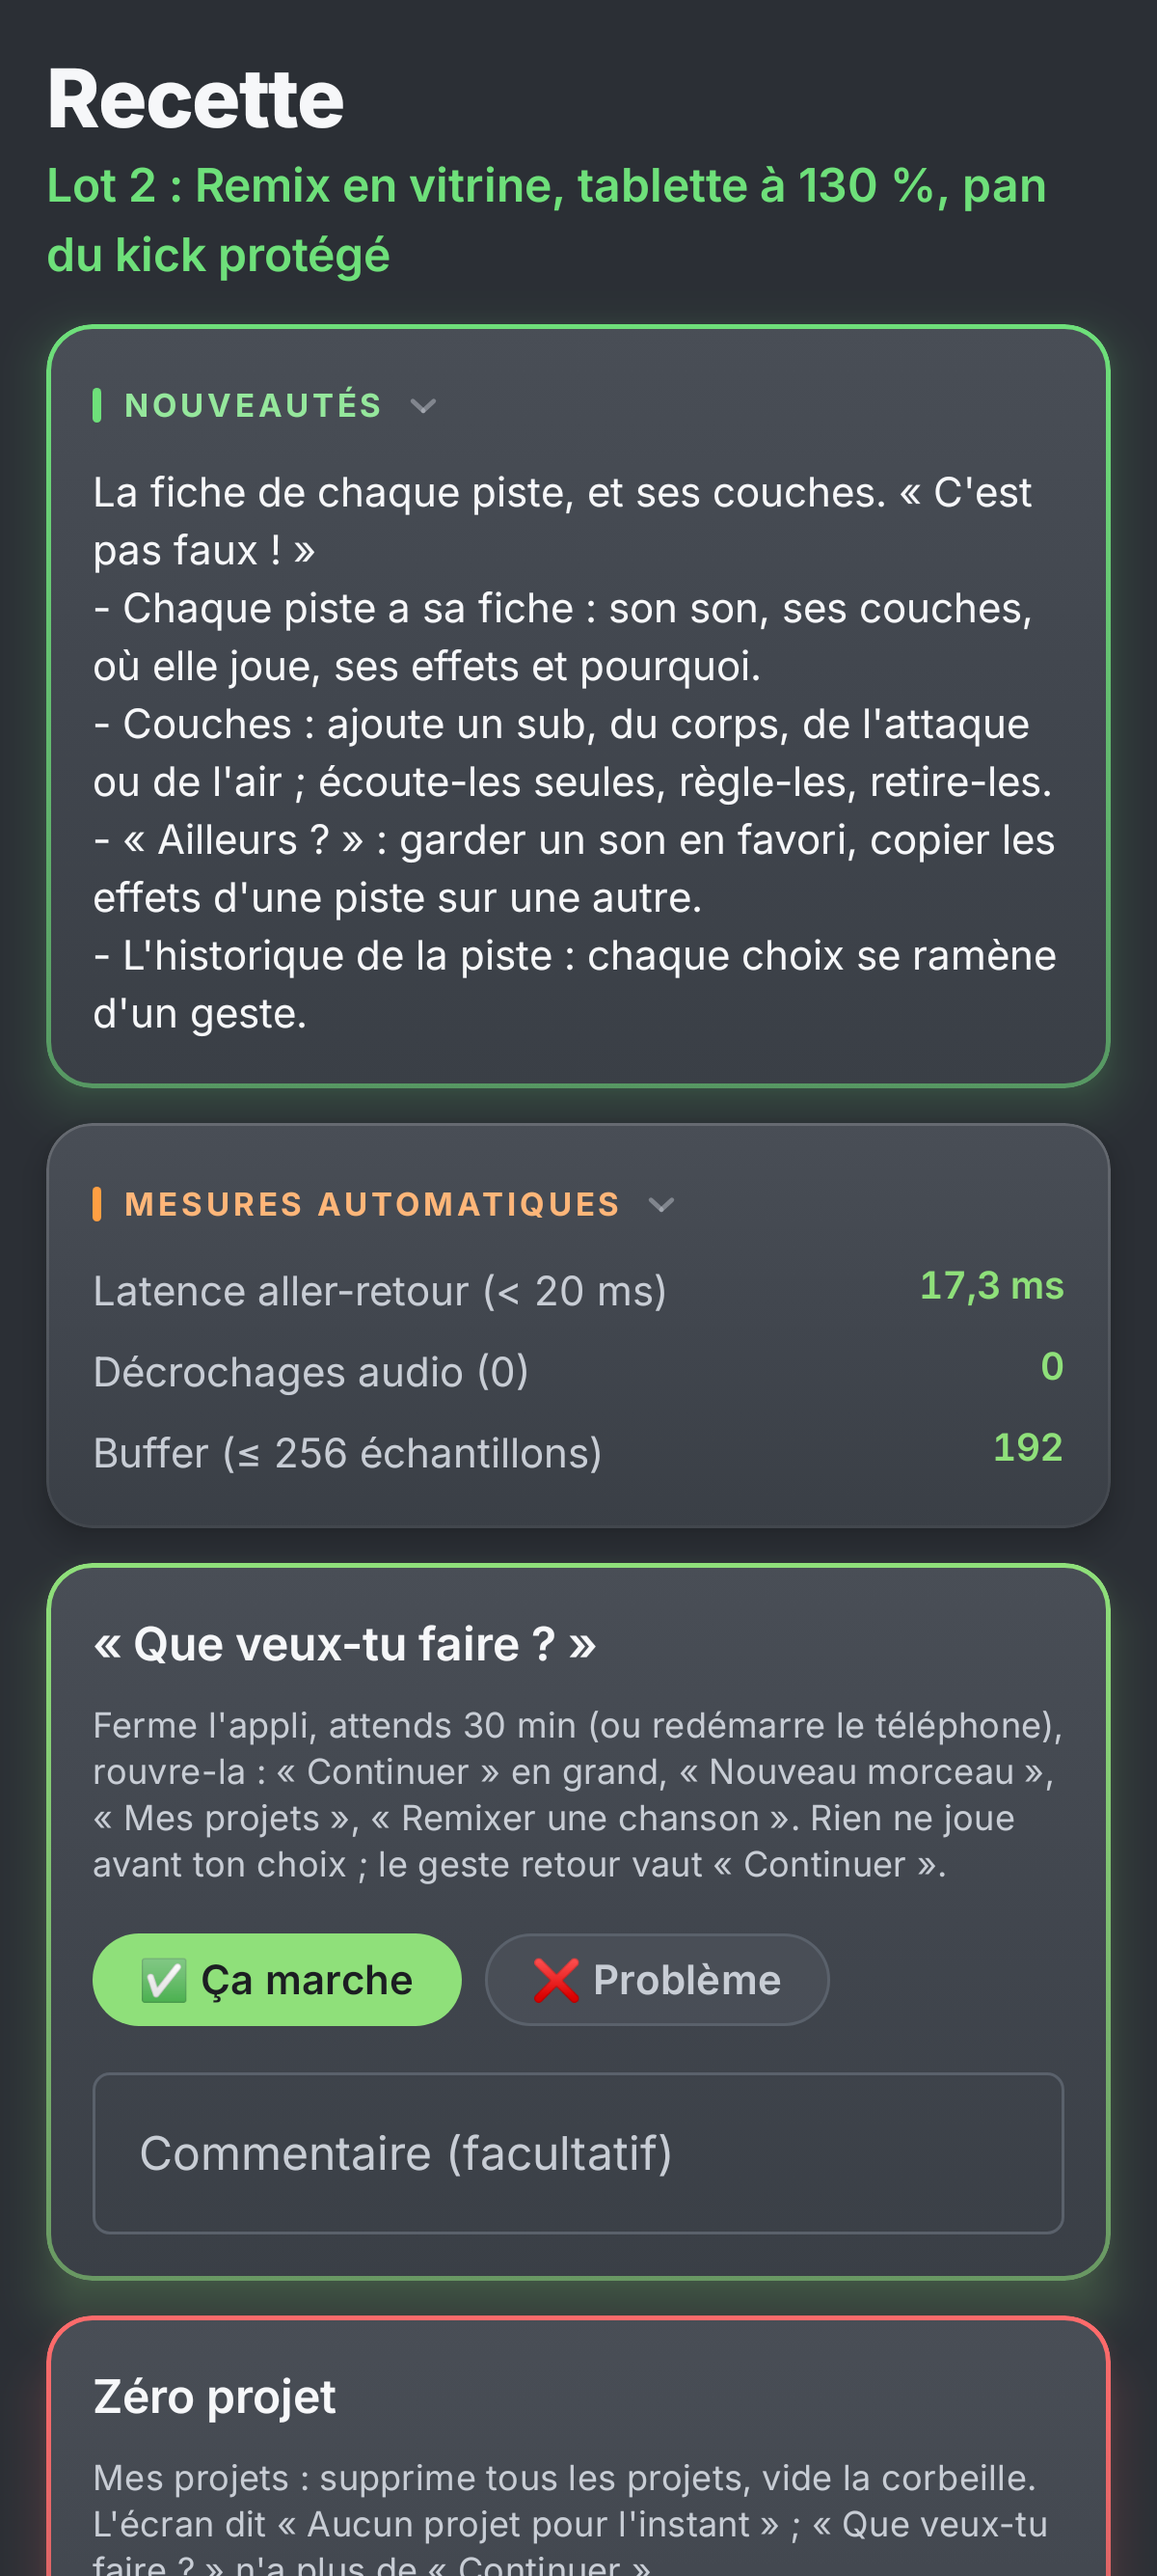
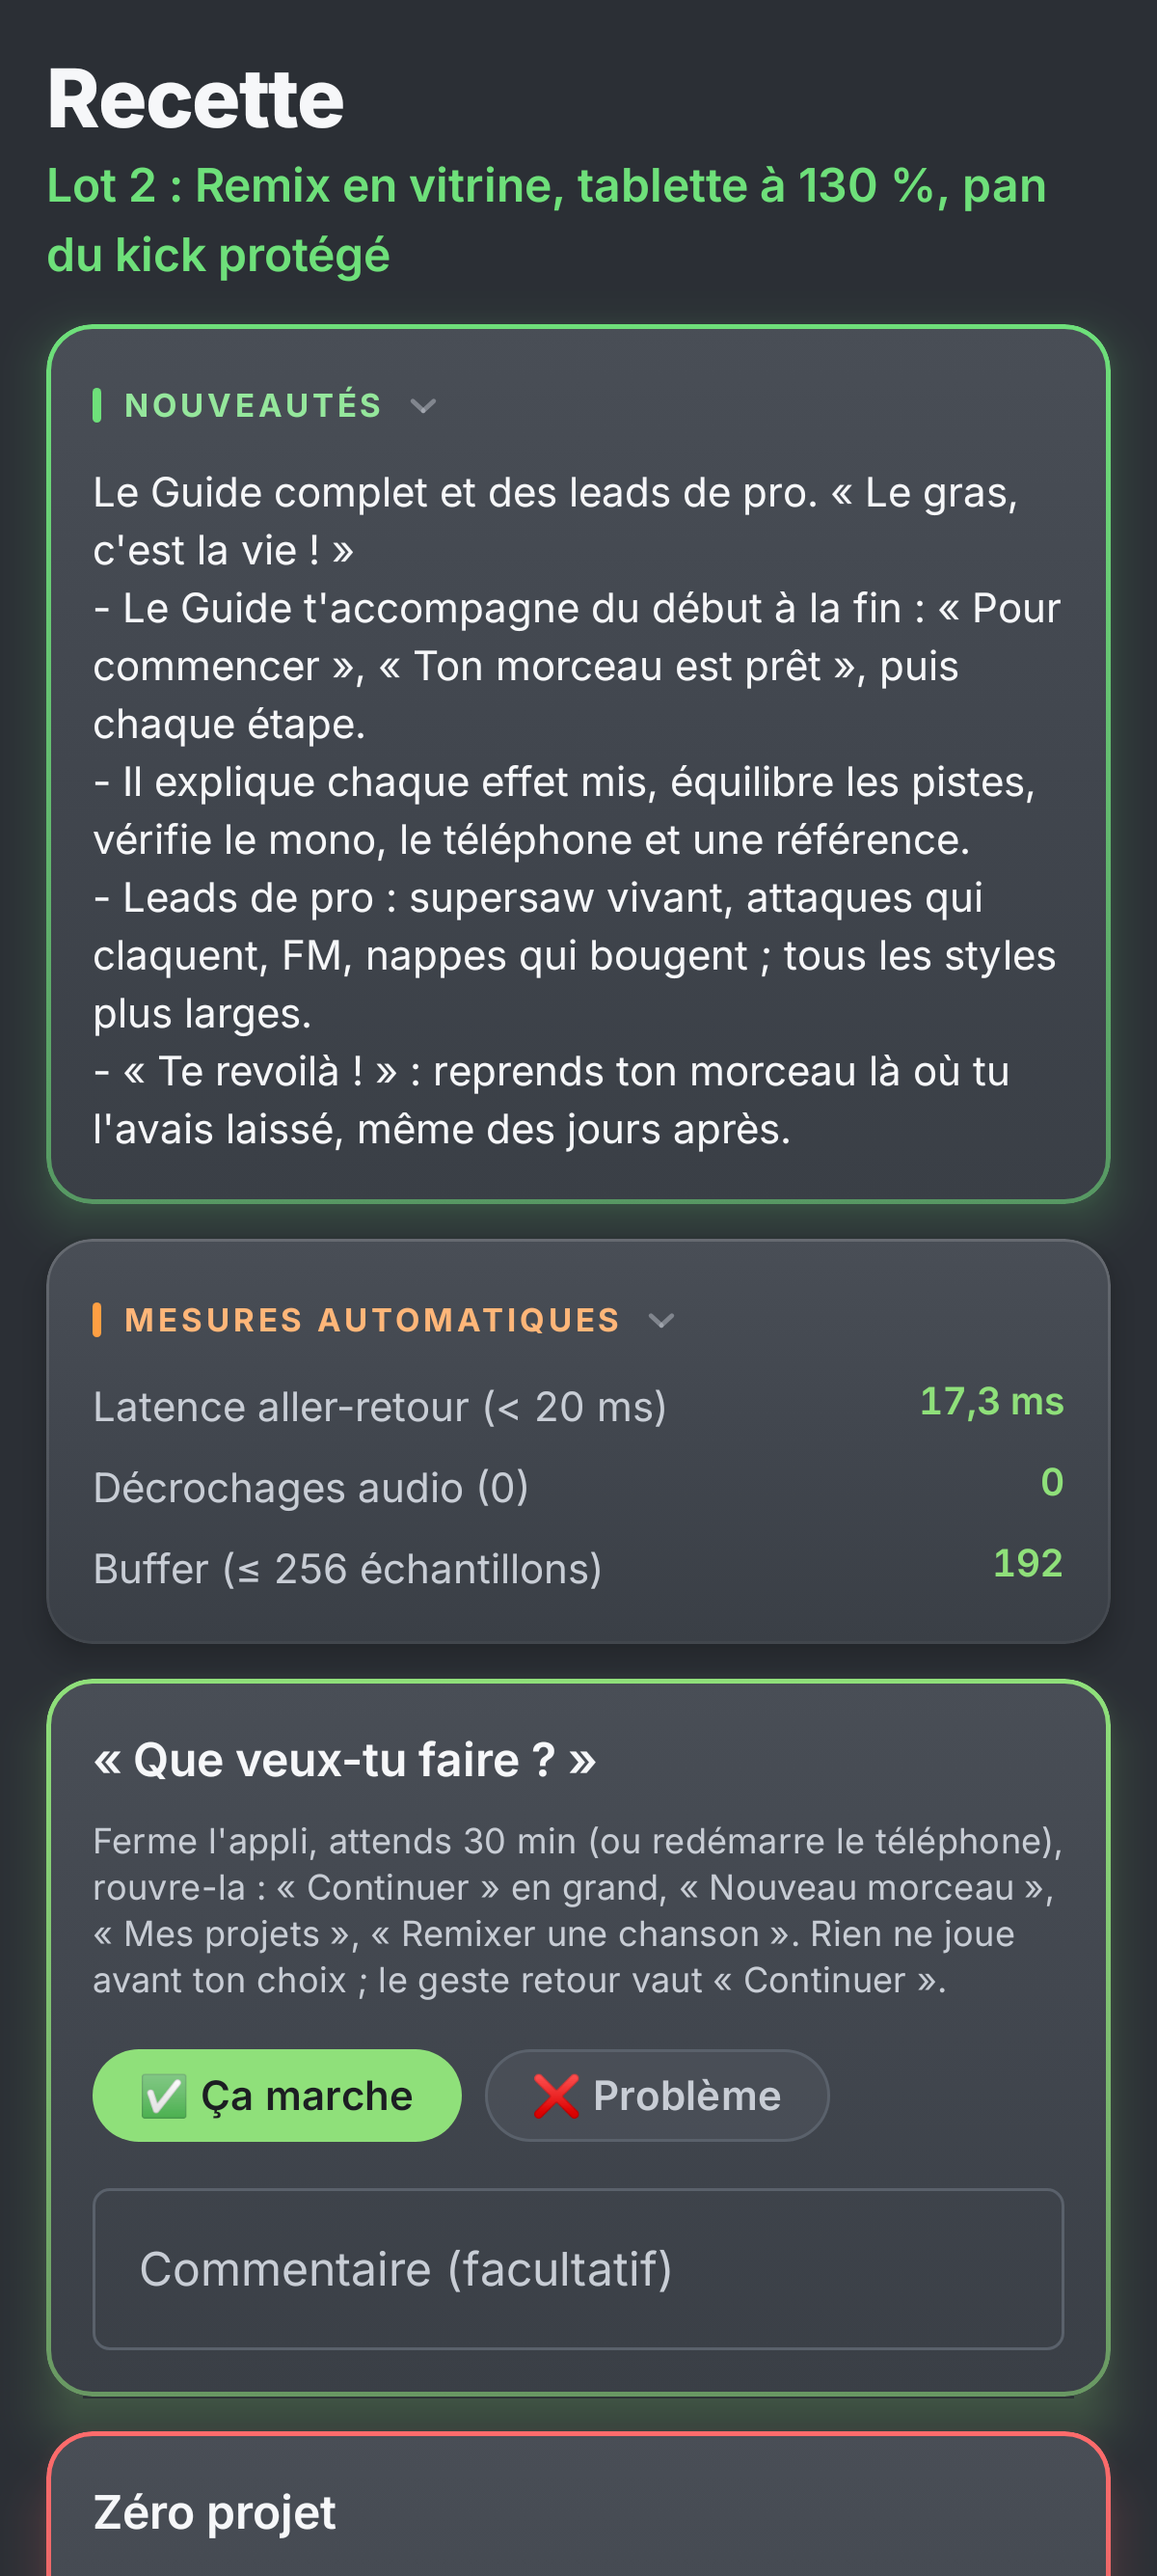
Guide G4 to G6 and the sound's finish on main, the final audit planned [skip ci]
Changelog, progress, Benjamin's rules of 2026-10-26/27 (one APK when all is done, news at each
step, the Play Store on his word), the plan of the final audit; screenshots with son 8's curves.

Claude-Session: https://claude.ai/code/session_01NqonxZBBysqqWBbnsC2VTP

Changed region(s): [[0.0308, 0.1865, 0.9867, 1.0], [0.6783, 0.9326, 0.8942, 0.9948]]

diff --git a/docs/PROGRESS.md b/docs/PROGRESS.md
@@ -1,25 +1,13 @@
 # Avancement
 
-## Où on en est (2026-10-25)
-- `main` = PR #51 (basses + leads lot 1 + S6) ; APK 220 envoyé à Benjamin avec les extraits avant / après (« C'est parfait »).
-- `main` = PR #52 (Guide G2 + S7 son), APK 222 compilé par l'agent et envoyé à Benjamin (consigne : compiler soi-même dès qu'un bloc est prêt, sans attendre GitHub).
-- En cours : PR Guide G3 (fiche de piste, éditeur de couches, historique), relue à neuf.
-- Fait (branche `g4`, pas encore relue à neuf) : Guide G4, les étapes 3 à 6 en vraies cartes (effets un par un, Break tiré du Drop, courbes et fills, niveaux mesurés, mono, téléphone, référence).
-- Fait (branche `g5`, sur `g4`) : relecture neuve de G4 et ses corrections mineures ; Guide G5, une seule surface pour guider : « Ton morceau est prêt » est la première carte du Guide d'un morceau tout juste fait (le panneau s'ouvre dessus), les Missions sont les cartes « Pour commencer » de « Mon premier morceau », la « Prochaine étape » d'un morceau fait à la main aussi ; le bandeau, la fenêtre et la carte des Missions sont retirés ; le mot de chaque carte s'écoute avant de décider ; carte « Remixer un morceau ». Pas encore relue à neuf.
-- Fait (branche `g6`, sur `g5`) : Guide G6, vérification : parcours complet dans Robolectric (création par l'assistant, activité recréée, cartes, fiche, couches, export, reprise 3 jours plus tard), Mode simple, 15 actions clés avec le Guide ouvert, banc des 37 morceaux suivis jusqu'au bout ; bilan critère par critère dans `docs/guide/G6-verification.md` ; le Guide dit « Te revoilà » tout seul après un jour d'absence.
+## Où on en est (2026-10-27)
+- `main` = Guide G4, G5 et G6 + son 8 (leads lots B à D, largeur des 37 styles, restes S6/S7), chacun relu à neuf et corrigé ; fusion sans CI de GitHub (« [skip ci] », en pause sur demande de Benjamin), tests faits ici.
+- Consignes de Benjamin (2026-10-27) : un seul APK quand tout est fini ; des nouvelles à chaque fin d'étape ; le Play Store seulement quand il le demande.
 
 ## Prochaine étape exacte
-1. CI verte de la PR G3, fusion ; APK compilé ici et envoyé à Benjamin.
-2. Relecture neuve de G5, fusion de G4 + G5 ; puis G6 (vérification : parcours complet sur émulateur avec les cartes « Pour commencer », reprise à 3 jours, durée des mesures sur le téléphone).
-3. Restes son : largeur de deep house, dubstep, neurofunk, phonk ; intros en direct de riddim et jersey club ; restes de relecture S6/S7 (REVIEW.md).
-4. Leads lots B à D, puis le chantier Play Store en dernier.
-- Fait (branche `son8`, sur `g4`, pas encore relue à neuf) : son 8, leads lots B à D (moteur : suivi de clavier, clic, vibrato retardé, supersaw JP-8000, ladder propre, drive avant filtre, chorus stéréo, PWM, FM ; bibliothèque et couches de l'assistant), largeur des 4 styles étroits, restes de relecture S6/S7. Banc : `docs/son/banc/apres-son8.md`.
-
-## Prochaine étape exacte
-1. CI verte de la PR G3, fusion ; APK compilé ici et envoyé à Benjamin.
-2. Relecture neuve de G4 et fusion ; puis G5 (fusion des anciennes surfaces), G6 (vérification, dont la durée des mesures sur le téléphone).
-3. Relecture neuve de son 8 (branche `son8`), écoute des extraits `scratchpad/final/<style>-final.m4a` par Benjamin, fusion.
-4. Restes son : intros en direct de riddim et jersey club (estimer le gain sur plus d'une partie) ; puis le chantier Play Store en dernier.
+1. Le grand audit final (`docs/PLAN-AUDIT-FINAL.md`) : une vingtaine d'auditeurs en même temps (utilisateurs, pros du son, experts techniques, forme), synthèse par gravité, correction de tout le grave et le moyen, seconde passe de vérification.
+2. Puis l'APK unique compilé ici, avec les extraits audio, et le résumé pour Benjamin.
+3. Plus tard, sur demande de Benjamin : le chantier Play Store.
 
 **Phase 0 fusionnée le 2026-10-18, phase 1 fusionnée le 2026-10-19 (feu vert de Benjamin).** Phase en cours : 2 (sampler et notes).
 

diff --git a/docs/PLAN-AUDIT-FINAL.md b/docs/PLAN-AUDIT-FINAL.md
@@ -1,0 +1,52 @@
+# Le grand audit final (demande de Benjamin, 2026-10-27)
+
+> « Une fois que tout est terminé et sur GitHub, prévois un énorme audit avec un beau panel. L'objectif est de trouver toutes les imperfections du programme, quel que soit le type. » — « N'hésite pas à tout mettre en même temps, pas de limite. »
+
+## But
+Trouver **toutes** les imperfections de Pocket Studio, quel que soit leur type : bugs, plantages, pertes de données, sons ratés, gestes pénibles, textes faux, lenteurs, trous de tests, fragilités du code. Puis corriger tout ce qui est grave et moyen, et vérifier.
+
+## Le panel (tous en même temps)
+Chaque auditeur lit le code et les captures, fait tourner ce qu'il peut sur la machine (tests Robolectric, banc de son, rendus hors ligne, captures), et rend des constats précis : où, comment le reproduire, gravité, correction proposée.
+
+**Utilisateurs (parcours réels, captures et tests Robolectric)**
+1. Débutant total, téléphone, « un morceau pour une soirée » (house).
+2. Débutante, « remixer une chanson » (séparateur de pistes).
+3. Ado, trap / drill, veut enregistrer sa voix.
+4. Débutant bass music, jump up (le style de Benjamin), suit le Guide jusqu'au bout.
+5. Débutante lo-fi, Mode simple, reprend son morceau des jours après.
+6. Musicien confirmé, va vite : clavier, notes, couches, mixeur, automation, export.
+7. Producteur live : page Live, pads, enregistrement de la performance.
+8. Utilisateur du Mode simple uniquement.
+9. Tablette Galaxy Tab A11, debout et couchée, 100 % et 130 %.
+
+**Pros du son (banc, rendus, mesures, extraits)**
+10. Bass music (DnB, jump up, dubstep, riddim, neurofunk) : basses, leads, Drops, largeur, téléphone.
+11. Techno / house / trance / acid : groove, contraste des parties, 303, largeur.
+12. Rap / trap / lo-fi / afro / pop : 808, voix, accords, mix.
+
+**Experts techniques**
+13. Moteur audio temps réel : allocations, verrous, NaN, dénormaux, craquements, CPU, latence.
+14. Sauvegarde et données : écriture atomique, vieux projets, migration, export/import zip, perte possible.
+15. Plantages et robustesse : projets bizarres, gestes rapides, rotation, appli tuée, mémoire basse, permissions refusées.
+16. Performance : fil principal, recompositions, mémoire, rendus hors ligne, petits téléphones.
+17. Qualité du code : code mort, duplication, fichiers géants, fragilités.
+18. Qualité des tests : ce qui n'est pas testé, tests faibles ou instables.
+19. Sécurité et vie privée : fichiers, partages, journaux, données envoyées, permissions.
+
+**Forme**
+20. Design et ergonomie : cohérence, densité, gestes, 130 %, captures.
+21. Textes : français, anglais, néerlandais (ton, fautes, jargon, traductions manquantes).
+22. Accessibilité : TalkBack, contrastes, tailles de cible, ordre de lecture.
+23. Le Guide : aide-t-il vraiment ? Trop bavard, pas assez, faux, redondant ?
+
+## Après les constats
+- **Vérification** : chaque constat grave ou moyen est revu par un sceptique indépendant (il essaie de le réfuter) ; seuls les constats confirmés restent.
+- **Synthèse** : `docs/AUDIT-FINAL.md`, classée par gravité (grave / moyen / mineur) et par thème, chaque ligne avec son auditeur et sa preuve.
+- **Corrections** : tout le grave et le moyen, par lots indépendants en parallèle ; le mineur noté dans `docs/REVIEW.md`.
+- **Seconde passe** : relecture neuve des corrections, tests complets, captures regardées.
+- **Fin** : un seul APK compilé ici, avec un résumé court pour Benjamin et les extraits audio si le son change.
+
+## Contraintes
+- La CI de GitHub est en pause (demande de Benjamin) : tout se teste sur la machine de l'agent ; fusion avec « [skip ci] ».
+- Pas d'émulateur ici : Robolectric, tests hôte, bancs de son. Ce qui demande un vrai téléphone est listé pour Benjamin.
+- Le chantier Play Store n'est pas dans cet audit (sur demande de Benjamin plus tard).

diff --git a/docs/RETOURS.md b/docs/RETOURS.md
@@ -75,3 +75,6 @@ Format : `- [ ] AAAA-MM-JJ · écran / capture · ce que dit Benjamin` ; `- [x]`
 - [x] 2026-10-25 — Benjamin : « Termine par GitHub. Et publie toi-même l'APK dès que possible. » → mal compris d'abord (un APK à chaque fusion) ; Benjamin a précisé : un seul APK à la fin, avec tout dedans, envoyé par l'agent. Basses, leads et passe son S6 partent ensemble dans une seule PR ; l'APK de cette fusion est le seul envoyé, avec les extraits avant / après (décision 4A maintenue).
 - [x] 2026-10-25 — Benjamin : « Compile l'APK pour moi. Tu devais attendre pour GitHub » → l'agent compile et signe l'APK lui-même dès qu'un bloc est prêt et testé, et l'envoie sans attendre la fin de la CI de GitHub.
 - [x] 2026-10-25 — Benjamin : « Envoie sur GitHub mais ne fais plus compiler sur GitHub. Je te le dirai. » → le code part sur GitHub avec « [skip ci] » dans chaque commit et chaque fusion (aucune CI lancée) ; tests et APK faits ici, sur la machine de l'agent, jusqu'à ce que Benjamin dise de reprendre.
+- [x] 2026-10-26 — Benjamin : « Fais seulement l'APK quand tout est fini. Le Play Store, seulement quand je te le demanderai. » → un seul APK à la fin ; chantier Play Store en attente de sa demande.
+- [x] 2026-10-27 — Benjamin : « Termine tout en full », puis : « Une fois que tout est terminé et sur GitHub, prévois un énorme audit avec un beau panel. L'objectif est de trouver toutes les imperfections du programme, quel que soit le type. » et « N'hésite pas à tout mettre en même temps, pas de limite. » → grand audit final (`docs/PLAN-AUDIT-FINAL.md`) avec tous les auditeurs en parallèle (fin du mode éco pour cet audit).
+- [x] 2026-10-27 — Benjamin : « N'hésite pas à me donner des news à chaque fin de quelque chose. » → un court message à chaque étape finie.
